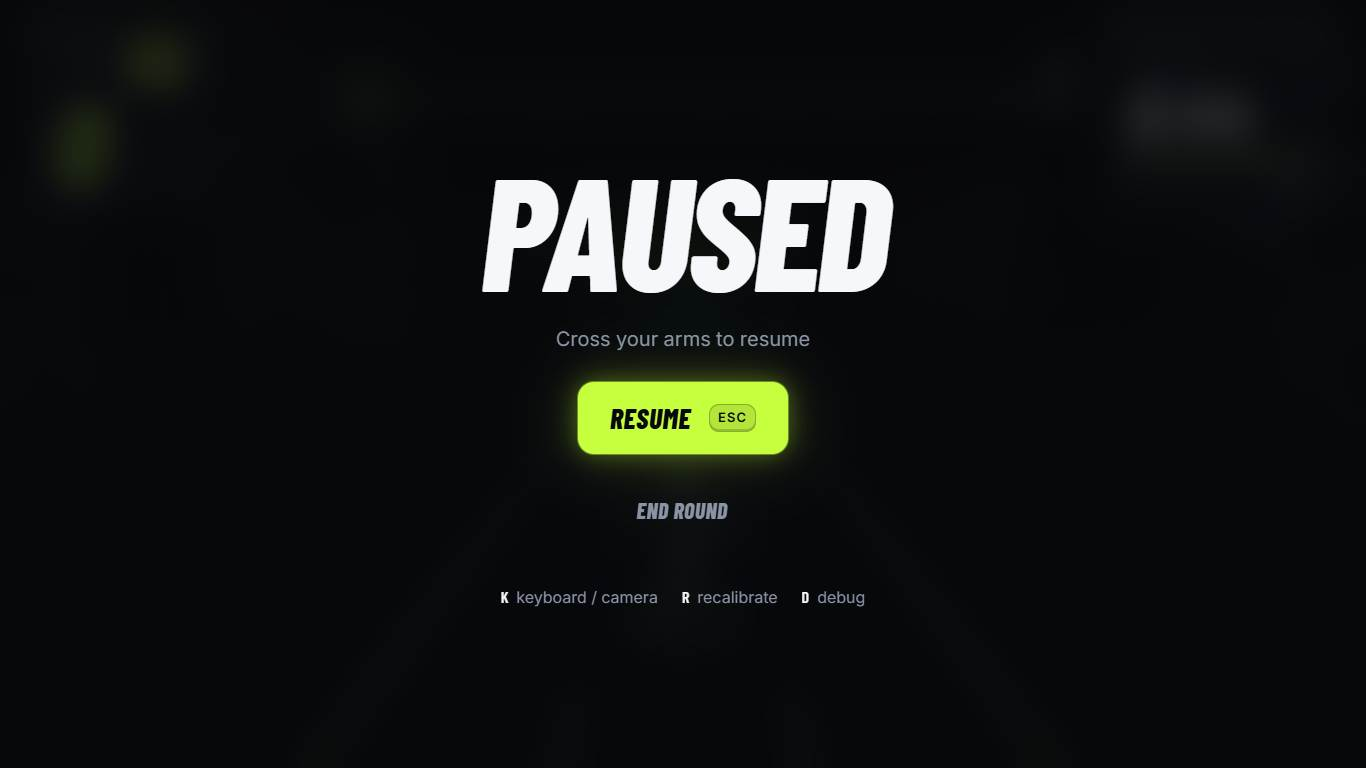
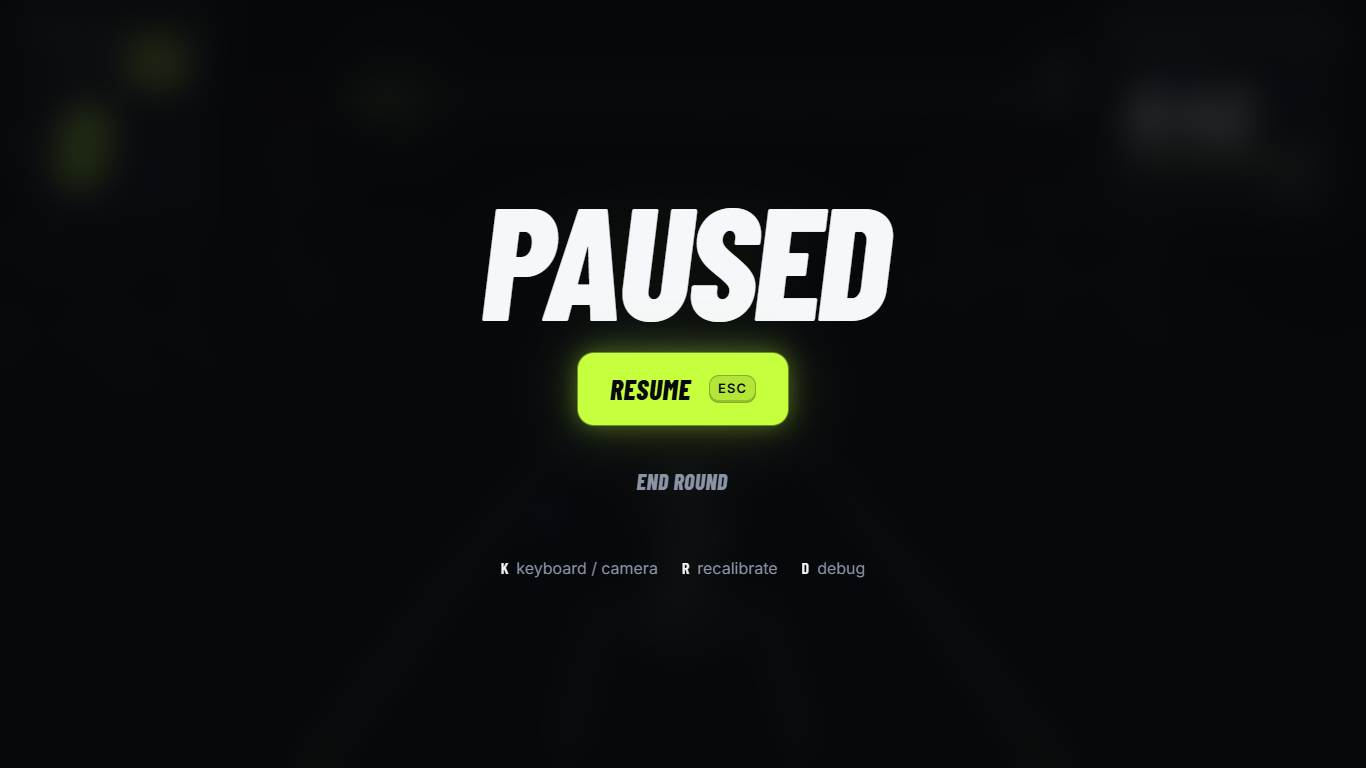
Re-sweep 7be4281: Q14, Q17 (both routes), A3 fixed; docs aligned (762 tests, shots, chip, links)
## What changed
- `docs/QA.md`: status for `main` 7be4281. Q14, Q17 (both routes) and A3 marked fixed with what was seen; only Q12 stays open, by choice (the kiosk is the QR screen). Log line. `docs/qa/paused-1366.jpg` replaced (keyboard pause, no gesture hint).
- `docs/qa/sweep/`: two new checks (the kiosk opened first saves no player, Q17; a keyboard pause shows no X hint, Q14) and an 0.8 s wait so the pause shot isn't taken mid-fade. 35 checks per size.
- `docs/OPERATOR.md`: the "don't open the kiosk with store=local" warning is removed (Q17 fixed).
- `docs/SUBMISSION.md`: 699 → **762** tests; the screenshot commits are now right (game frames 04–09 are from 231dc4a after #46).
- `docs/DEMO.md`: the ghost chip is "at the bottom right" since #46 (the script said "at the top").
- `README.md`: the docs table adds OPERATOR, SUBMISSION, QA and the sweep.
- Checked and already consistent: the demo URL `http://localhost:5173/?demo=1`, the offline URL, kiosk and `?dev=pose`, the live URL, keys (K, R, D, Esc, X), and "about 50 s" START → results (DEMO, OPERATOR; measured 50.1 and 50.2 s).

## How I tested it
- `node docs/qa/sweep/sweep.mjs` on `npm run dev` 7be4281: **105 passed, 0 failed** (35 per size).
- Q14: a keyboard pause, text and a screenshot after the fade-in: no "Cross your arms to resume".
[…]

Changed region(s): [[0.3382, 0.2188, 0.6764, 0.6875], [0.369, 0.7188, 0.6457, 0.7812]]

diff --git a/docs/QA.md b/docs/QA.md
@@ -4,11 +4,11 @@
 
 Branches are pushed with the PR text in the first commit message (`git log --reverse main..<branch>`).
 
-No decision is waiting. Q15 no longer needs one: Patrick's #46 moved the banners and the ghost chip to the bottom, and it is verified fixed below.
+No decision is waiting.
 
-## Status (Sat 15:55, `main` at bb17780; leaderboard re-checked on ba46d74, Q15 and Q17 on 231dc4a)
+## Status (Sat 17:07, `main` at 7be4281)
 
-Full keyboard flow at 1366×768, 1920×1080 and 1280×720 with the new game (city/tunnel/bridge zones, beat, PERFECT/GOOD/LATE, 3-2-1 intro), plus a check of every fix in #40 and #41. **No console errors, no horizontal scroll, every round finished and saved.** `npm run check` on bff0541: 699 tests, none skipped.
+`docs/qa/sweep/sweep.mjs` on 7be4281: **105 checks passed, 0 failed** (35 per size at 1366×768, 1920×1080, 1280×720): every screen, a scripted perfect demo round (4,750), no console errors, no horizontal scroll. `npm run check`: 762 tests, none skipped. Only Q12 is open, by choice: the kiosk is the QR screen.
 
 | # | Severity | Problem | Owner | Status |
 | --- | --- | --- | --- | --- |
@@ -23,40 +23,25 @@ Full keyboard flow at 1366×768, 1920×1080 and 1280×720 with the new game (cit
 | Q9 | minor | Offline banner covered the HUD panels | Greg | **fixed**, verified |
 | Q10 | minor | `?store=local` rounds said NOT SYNCED | Greg | **fixed**, verified |
 | Q11 | minor | "1 DAYS", "1 rounds" | `src/ui` | **fixed**, verified |
-| Q12 | minor | Landing QR below the fold at 1366/1280 | `src/ui` | open (use `?kiosk=1`) |
+| Q12 | minor | Landing QR below the fold at 1366/1280 | `src/ui` | open by choice: use `?kiosk=1` |
 | Q13 | minor | One NaN row would block the offline queue | Greg | **fixed** (test runs and passes) |
-| Q14 | visible | "Cross your arms to resume" is small, grey, and shown to keyboard players | `src/ui` | **open** |
+| Q14 | visible | "Cross your arms to resume" was small, grey, and shown to keyboard players | `src/ui` | **fixed**, verified (keyboard side) |
 | Q15 | visible | HUD cue word overprinted the "N COMBO!" banner and the VS GHOST chip | Patrick (#46) | **fixed**, verified |
 | Q16 | minor | Local store leaderboard listed every round, not each player's best | Greg | **fixed**, verified |
-| Q17 | minor | `?kiosk=1&store=local` on a fresh browser saves a player called "Leaderboard" | Greg | **new** |
+| Q17 | minor | The kiosk could save a player called "Leaderboard" (two routes) | Greg | **fixed**, verified (both routes) |
 | A1 | visible | Results: "RAISE BOTH ARMS TO PLAY AGAIN" was 20 px | `src/ui` | **fixed** (code; camera-only screen) |
 | A2 | visible | Tutorial hint was 20 px grey | Greg | **fixed**, verified |
-| A3 | minor | Tracking-lost subtext 16 px; "Camera starting…" 14 px | `src/ui` | half fixed: "Camera starting…" open |
+| A3 | minor | Tracking-lost subtext 16 px; "Camera starting…" 14 px | `src/ui` | **fixed** (code; camera-only screen) |
 | perf 1 | — | Fetch the game chunk on the select screen | Greg | **done**, verified |
 
 **How tested:** Chrome 157 headless driven over the DevTools protocol (a script, no packages), `npm run dev`, `?store=local`, real key events; scripted perfect rounds for timing-dependent screens. Screenshots in [docs/qa/](qa/).
 
-**Not tested here:** anything with a camera (none on this machine; no webcam by rule): calibration at 1.5 m, pose play, the X gesture itself, R, the hands-free replay. Supabase (no `.env.local` here, always the local store). Real GPU frame rate. Sound and music.
+**Not tested here:** anything with a camera (none on this machine; no webcam by rule): calibration at 1.5 m, pose play, the X gesture itself and its on-screen hint, "Camera starting…", R, the hands-free replay. Supabase (no `.env.local` here; Q17's Supabase route was tested against an unreachable URL, never a real project). Real GPU frame rate. Sound and music.
 
 ## Open findings
 
-### Q14. The pause screen's "Cross your arms to resume"
-- **Steps:** any size → start a round with the **keyboard** → Esc.
-- **Expected:** the gesture hint only for camera players, readable from the mark (1.5 m).
-- **Saw:** "Cross your arms to resume" for a keyboard player, at 20 px in muted grey (`text-body text-text-muted`, `GameHud.tsx:296`) ([paused-1366.jpg](qa/paused-1366.jpg)). A camera player who just paused with the X has to read it from 1.5 m.
-- **Owner:** `src/ui/screens/GameHud.tsx`. **Fix:** show it only when `cameraSlot` is set, as `font-display-italic text-display-sm text-text` (48 px, white).
-
-### Q17 (new). The local-store kiosk creates a player called "Leaderboard"
-- **Steps:** a browser with no saved player (or after New guest) → open `/?kiosk=1&store=local` → then open `/?demo=1&store=local`.
-- **Expected:** the kiosk only reads the board; the landing still says PLAY AS GUEST.
-- **Saw:** the landing says "CONTINUE AS LEADERBOARD", and `codejam.local.profile` holds `{"displayName":"Leaderboard", …}` ([q17-continue-as-leaderboard.jpg](qa/q17-continue-as-leaderboard.jpg)). A judge pressing Enter would play and be saved as "Leaderboard". Only on the local store: with Supabase the kiosk signs in an in-memory guest of its own (`src/data/index.ts`).
-- **Cause:** `KioskBoard.tsx` calls `store.signInGuest('Leaderboard')`; the local store's `signInGuest` creates and saves a profile when none exists.
-- **Owner:** Greg (`src/app/KioskBoard.tsx`). **Fix:** skip the sign-in when `store.kind === 'local'` (the local board needs none). Until then: don't open the kiosk with `&store=local` on the demo laptop (now in OPERATOR.md).
-
-### Q12, A3 (minor)
-- **Q12:** the landing "Play on your laptop" QR starts at y 748 (below the fold at 720, at the edge at 768) ([landing-1366.jpg](qa/landing-1366.jpg)). Use `?kiosk=1` for the QR at the table.
-- **A3:** calibration "Camera starting…" is still a 14 px muted eyebrow (`CalibrationScreen.tsx:117`) while the player walks to the mark. Fix: `font-display-italic text-display-sm text-text`.
-
+### Q12 (minor, open by choice)
+The landing "Play on your laptop" QR starts at y 748 (below the fold at 720, at the edge at 768) ([landing-1366.jpg](qa/landing-1366.jpg)). The kiosk (`?kiosk=1`) is the QR screen for the table.
 ## Fixed and verified (on bb17780 unless noted)
 
 - **Q1:** at 1280×720 and 1366×768 the select screen is exactly one screen tall; Camera at y 508–556, START at 607–679 ([select-1280x720.jpg](qa/select-1280x720.jpg)).
@@ -72,6 +57,9 @@ Full keyboard flow at 1366×768, 1920×1080 and 1280×720 with the new game (cit
 - **Q13:** the `mapping-edges` test runs and passes.
 - **Q15** (231dc4a, #46): at 1366×768 and 1920×1080 the cue stays in the top band, "5/10/20 COMBO!" appears at bottom centre and the "VS GHOST" chip at bottom right; nothing overlaps at any of the three milestones ([1366 at 5](qa/q15-fixed-1366.jpg), [1920 at 10](qa/q15-fixed-1920.jpg)). Old evidence kept: [before, 1366](qa/q15-cue-over-banner-1366.jpg).
 - **Q16** (ba46d74): a local profile with three 45 s rounds (best 4,750) shows "Sam" once on the landing top list, the leaderboard and `?kiosk=1`.
+- **Q14** (7be4281): a keyboard round → Esc: PAUSED, RESUME, END ROUND and the key hints; no "Cross your arms to resume" ([paused-1366.jpg](qa/paused-1366.jpg)). The camera-side hint (48 px, white, only with `cameraSlot`) is read from code: no camera here.
+- **Q17** (7be4281), both routes: (1) fresh browser → `?kiosk=1&store=local` → landing still "PLAY AS GUEST", no `codejam.local.profile` saved. (2) A dev server with an unreachable Supabase URL (`http://127.0.0.1:9`, set only in that process, no real project): the kiosk's sign-in fails ("Guest sign-in failed; using the local store for this visit") → landing still "PLAY AS GUEST", nothing saved. Route 1 is now a sweep check.
+- **A3** (7be4281): `CalibrationScreen.tsx` "Camera starting…" is `font-display-italic text-display-sm text-text` (48 px, white). The calibration screen needs a camera, so read from code only.
 - **Per-length boards (#45, ba46d74):** at 1920×1080, 1366×768 and 1280×720 the three filter groups (workout, mode, 45/90/180 S) sit on one row with nothing clipped and no horizontal scroll ([leaderboard-1280x720.jpg](qa/leaderboard-1280x720.jpg)); 1280×720 is 722 px tall (a 2 px scroll). 90 S with no rounds keeps the title "FULL BODY · FLOOR · 90 S", the filters and BACK ([leaderboard-empty-filter.jpg](qa/leaderboard-empty-filter.jpg)); Legs is disabled on Treadmill; results said "#1 on the leaderboard" for the 45 s round. `?kiosk=1` shows the 45 s board with no filters at all three sizes, no scroll. Not tested: Supabase (migration 0003 and other players on the board).
 - **A1:** `ResultsScreen.tsx` now uses `text-display-sm` (48 px) and a 96 px figure. Only shown with the camera, so read from code.
 - **A2** (5a85969): tutorial counter 32 px, move name 72 px, hint 48 px white ([tutorial-1280x720.jpg](qa/tutorial-1280x720.jpg)).
@@ -125,3 +113,4 @@ Open suggestions: preload the pose model on the landing page for live-URL visito
 | 16:37 | Tests (`q-tests-2`) | `src/workout/pitch-claims.test.ts`: perfect demo = 4,750 / 100% / ≈7.35 kcal; 180 s ≈ 5–7× 45 s; Legs floor-only. 5 pass |
 | 16:40 | Sweep script (`q-sweep`) | `docs/qa/sweep/`: one command, 3 sizes in parallel, 34 checks each; first run 102/102 passed |
 | 16:42 | Operator card (`q-operator-2`) | Camera preselected, X chest-to-chin; found Q17 (local-store kiosk saves a "Leaderboard" player) |
+| 17:07 | Re-sweep 7be4281 (`q-docs-sync`) | Sweep 105/105 (new checks: Q14, Q17 route 1); Q14, Q17 (both routes), A3 marked fixed; test count 762, shot dates, ghost chip position and doc links aligned across README, SUBMISSION, OPERATOR, DEMO; kiosk warning removed |

diff --git a/docs/DEMO.md b/docs/DEMO.md
@@ -17,7 +17,7 @@ Target length: 2 minutes 40 seconds for the judges. Shorter talk means more Q&A,
 | --- | --- | --- |
 | 0:00 to 0:20 | Presenter | Hook. "Who here has skipped a workout this week?" Then one line on the problem: working out at home is boring, so people stop. |
 | 0:20 to 0:35 | Presenter | What it is, in one sentence: "It's a workout you play with your whole body, using only your laptop's webcam, with a coach that recommends your next session from how you did." |
-| 0:35 to 1:30 | Player, Operator, Presenter | Live round. `?demo=1` has already selected Full body, and the switch shows Camera (preselected when the laptop has a camera; the Operator checks it). The Operator clicks Start. The Player stands on the tape mark (about 1.5 m) and holds still for about 1.5 s to calibrate; the round then opens with a 3 s camera fly-in and 3-2-1, GO (there is no "raise both arms to start"). The Presenter fills the countdown: "It just measured the player, so every move is judged against their own body." The Presenter names each move as it comes: sidestep, grab the orb (one arm), smash the crate (both arms), jump, squat and hold. If a ghost was rehearsed on this URL with the camera: "The see-through runner is our best rehearsal; the chip at the top says whether we're ahead." Point once at a PERFECT label and at the tunnel and bridge as the track changes. **Timing:** START to results measured at 50 s (keyboard); calibration adds 2 to 4 s with the camera, so START at 0:35 gives results at about 1:28. |
+| 0:35 to 1:30 | Player, Operator, Presenter | Live round. `?demo=1` has already selected Full body, and the switch shows Camera (preselected when the laptop has a camera; the Operator checks it). The Operator clicks Start. The Player stands on the tape mark (about 1.5 m) and holds still for about 1.5 s to calibrate; the round then opens with a 3 s camera fly-in and 3-2-1, GO (there is no "raise both arms to start"). The Presenter fills the countdown: "It just measured the player, so every move is judged against their own body." The Presenter names each move as it comes: sidestep, grab the orb (one arm), smash the crate (both arms), jump, squat and hold. If a ghost was rehearsed on this URL with the camera: "The see-through runner is our best rehearsal; the chip at the bottom right says whether we're ahead." Point once at a PERFECT label and at the tunnel and bridge as the track changes. **Timing:** START to results measured at 50 s (keyboard); calibration adds 2 to 4 s with the camera, so START at 0:35 gives results at about 1:28. |
 | 1:30 to 1:55 | Presenter | The loop around the game. Results: score and grade, accuracy, best streak, reps per move, calories labelled as an estimate. Coach card (its badge says RULES): a recap from the numbers, one tip for the move missed most, and a recommended next session. Dashboard: active minutes this week against the weekly goal, and the day streak. Leaderboard: best score per workout, mode and round length, so a judge's 45 s round is never up against a 3-minute one. |
 | 1:55 to 2:25 | Presenter | How it works: "Tracking runs in the browser, and the video never leaves the laptop. Every threshold is a fraction of your own body, measured at calibration. Webcam moves arrive late, so the game draws obstacles early by each move's measured lag. Sessions live in Postgres, and each player can read only their own rows. The coach reads your history and recommends the next session. Today that's our rule-based coach; the server endpoint is built to hand this to Claude, rate-limited, and switches on when a key is added. And treadmill mode gives runners upper-body moves." |
 | 2:25 to 2:40 | Presenter | Close and invite: "The high score today is ____. Who wants to beat it?" |

diff --git a/docs/SUBMISSION.md b/docs/SUBMISSION.md
@@ -45,7 +45,7 @@ Three people, four modules, one shared TypeScript contract file (`src/contracts/
 - **Backend.** Supabase anonymous sign-in and Postgres. Row-level security on every table: a player can read and insert only their own sessions, with no update or delete. A `leaderboard` view exposes only each player's best per workout, mode and round length (name, score, date); one board per length, because a 180 s round scores about 6× a 45 s one. Check constraints keep stored values in sane ranges.
 - **Offline.** If the network drops, the round is still played and saved. Sessions wait in a local queue and sync later, reads time out quickly and fall back to cache, and the coach falls back to the rules. `?store=local` runs with no backend at all.
 - **Coach endpoint.** A Vercel serverless function checks the player's token, reads their history through a Supabase client that carries that token (so row-level security applies on the server too and no service key is needed), and allows at most one call per player every 10 s with an atomic Postgres function. It asks Claude for JSON matching a schema, with a 7 s timeout and no retries, and validates the answer before returning it. **For the demo no Claude key is configured**, so the coach card shows the rule-based coach (it says RULES). It recommends the workout you played least this week, raises difficulty by 0.1 above 85% accuracy and lowers it below 60%, and aims the tip at your most-missed move.
-- **Quality.** 699 automated tests (Vitest). A mutation sweep set each of the 23 detection thresholds to an extreme value, and every one breaks at least one test.
+- **Quality.** 762 automated tests (Vitest). A mutation sweep set each of the 23 detection thresholds to an extreme value, and every one breaks at least one test.
 
 ## Challenges we ran into
 
@@ -98,7 +98,7 @@ Record on the demo laptop at `http://localhost:5173/?demo=1` with real sessions 
 
 ## Screenshots
 
-Real captures at 1920×1080 from `main` (bb17780 and bff0541), in [docs/submission/](submission/), ready to upload. All are from `http://localhost:5173/?demo=1&store=local` (the 45 s demo level) played **with the keyboard** by a script, so no camera preview appears; the ghost is an earlier, weaker run of the same level.
+Real captures at 1920×1080 from `main` (bb17780 to 231dc4a; which screen on which commit is listed under the table), in [docs/submission/](submission/), ready to upload. All are from `http://localhost:5173/?demo=1&store=local` (the 45 s demo level) played **with the keyboard** by a script, so no camera preview appears; the ghost is an earlier, weaker run of the same level.
 
 | File | Screen | Shows |
 | --- | --- | --- |
@@ -120,4 +120,4 @@ Real captures at 1920×1080 from `main` (bb17780 and bff0541), in [docs/submissi
 - One shot with the **camera**, showing the preview and skeleton in the corner, and `?dev=pose` (landmarks and threshold lines). This machine has no camera.
 - The leaderboard and kiosk on the **live site** after the team's real rounds: the local store holds one player, so the podium shows a single name.
 
-Select, results and dashboard were retaken on `main` bb17780 after the UI fixes in #41; the game frames (04–09) on bff0541 after the new scenery colours and icons in #42; leaderboard and kiosk (12, 13) on ba46d74 after the per-length boards in #45.
+Select, results and dashboard were retaken on `main` bb17780 after the UI fixes in #41; the game frames (04–09) on 231dc4a after the silver ghost and bottom banners in #46; leaderboard and kiosk (12, 13) on ba46d74 after the per-length boards in #45.

diff --git a/docs/qa/sweep/README.md b/docs/qa/sweep/README.md
@@ -11,9 +11,9 @@ node docs/qa/sweep/sweep.mjs http://localhost:5173/ ./my-out   # base URL and ou
 Needs Node 22+ (built-in WebSocket) and Chrome (`CHROME=/path/to/chrome` to override). No packages. Must be the dev server: the autoplayer imports the level generator from `/src/workout/index.ts`.
 
 **What it does, per size** (headless Chrome, fresh profile, `?demo=1&store=local`, camera permission denied):
-landing → Play as guest → profile ("Sweep") → select → START → tutorial → Esc → a scripted **perfect** demo round (`auto.js` syncs to the HUD cue and presses each key 0.08 s before the object arrives) with shots in the city, tunnel, bridge and finale → results → Play again → Esc → END ROUND → dashboard → leaderboard → 90 S filter → `?kiosk=1` → landing again.
+`?kiosk=1` → landing → Play as guest → profile ("Sweep") → select → START → tutorial → Esc → a scripted **perfect** demo round (`auto.js` syncs to the HUD cue and presses each key 0.08 s before the object arrives) with shots in the city, tunnel, bridge and finale → results → Play again → Esc → END ROUND → dashboard → leaderboard → 90 S filter → `?kiosk=1` → landing again.
 
-**Checks (34 per size):** each screen appears, no horizontal scroll on any shot, the select screen fits, the demo preselects Full body · floor · 45 s, the perfect round scores 4,750 with a RULES coach card, END ROUND saves nothing, the board title carries the round length, an empty 90 s board keeps its filters and Back, the kiosk shows the 45 s board, the returning player is offered, and **no console errors or warnings**.
+**Checks (35 per size):** opening the kiosk first saves no player (Q17), each screen appears, no horizontal scroll on any shot, the select screen fits, the demo preselects Full body · floor · 45 s, the perfect round scores 4,750 with a RULES coach card, a keyboard pause shows no X-gesture hint (Q14), END ROUND saves nothing, the board title carries the round length, an empty 90 s board keeps its filters and Back, the kiosk shows the 45 s board, the returning player is offered, and **no console errors or warnings**.
 
 **Output:** PNGs per size and `summary.json` in the output folder (default: the system temp folder, printed at the end).
 

diff --git a/README.md b/README.md
@@ -108,4 +108,7 @@ Vite, React 19, TypeScript (strict), Tailwind CSS, shadcn/ui (Radix), Motion, Re
 | [docs/CONTRACTS.md](docs/CONTRACTS.md) | Shared interfaces, database schema, endpoint, collision and level rules, detection thresholds |
 | [docs/PLAN.md](docs/PLAN.md) | The original build plan |
 | [docs/DEMO.md](docs/DEMO.md) | Pitch script, demo fallbacks, judge Q&A |
+| [docs/OPERATOR.md](docs/OPERATOR.md) | One-page card for the person at the laptop on demo day |
+| [docs/SUBMISSION.md](docs/SUBMISSION.md) | Devpost text, video shot list, screenshots |
+| [docs/QA.md](docs/QA.md) | QA findings and their status; [docs/qa/sweep/](docs/qa/sweep/) replays the whole flow at three sizes |
 | [AGENTS.md](AGENTS.md) | Rules every AI coding tool on the team follows |

diff --git a/docs/OPERATOR.md b/docs/OPERATOR.md
@@ -53,4 +53,4 @@ Keyboard play: ← → lane, ↑ or Space jump, ↓ squat (hold), W both arms, Q
 | Choppy (under 20 FPS) | Plug in, close tabs, more light on the player; last resort **K** |
 | App won't load | Backup video. Laptop dead: second laptop |
 
-**Don't:** click "Play this next" with `?demo=1` to show the coach's pick (it plays the same demo level). Don't use a LAN IP: the camera needs `localhost` or https. Don't open the kiosk with `&store=local` on the demo laptop: if no player is saved yet, it creates one called "Leaderboard" (QA Q17).
+**Don't:** click "Play this next" with `?demo=1` to show the coach's pick (it plays the same demo level). Don't use a LAN IP: the camera needs `localhost` or https.
